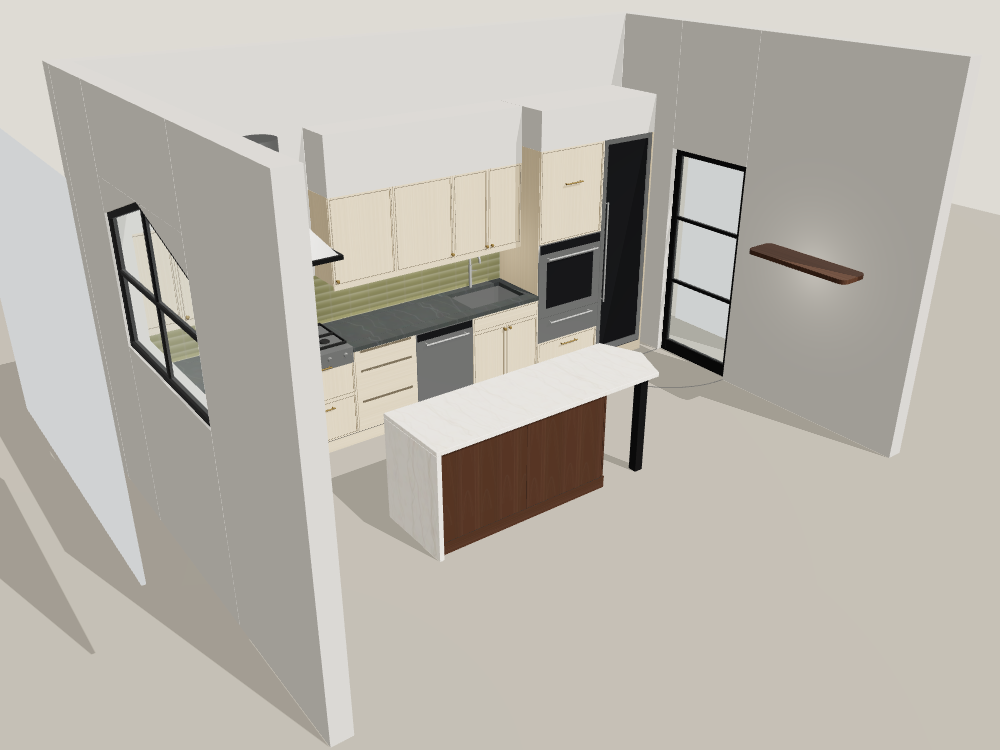
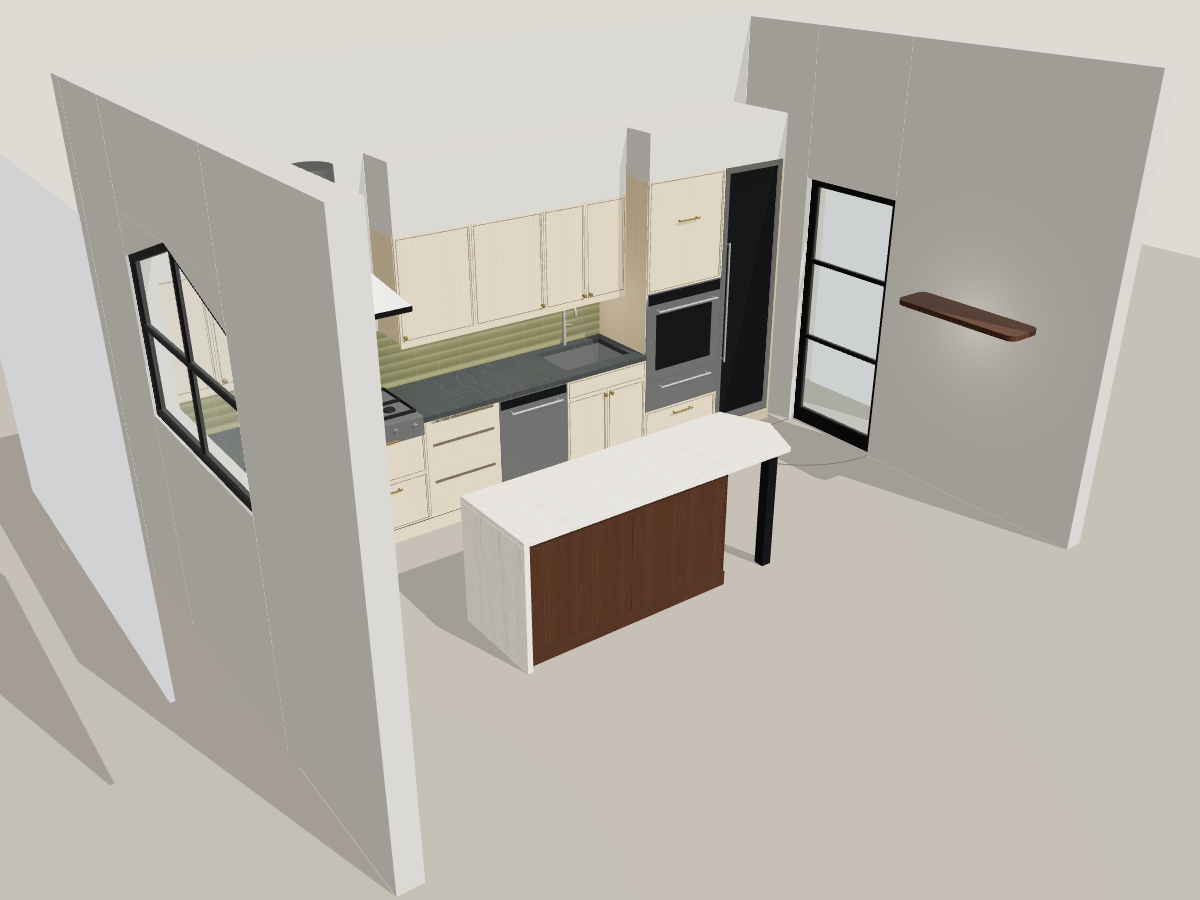
github pages workflow created for example page

Changed region(s): [[0.31, 0.3067, 0.496, 0.4293]]

diff --git a/tools/cpr.py b/tools/cpr.py
@@ -1323,6 +1323,111 @@ def cmd_job_material(a):
     return 0
 
 
+# ----------------------------------------------------------------------------- static site (GitHub Pages)
+SITE_MARKER = ".cpr-site"
+
+
+def site_index_html(cards, generated):
+    esc = lambda t: str(t or "").replace("&", "&amp;").replace("<", "&lt;").replace(">", "&gt;").replace('"', "&quot;")
+    items = []
+    for c in cards:
+        thumb = (f'<img src="{esc(c["thumb"])}" alt="{esc(c["title"])} overview" loading="lazy" width="1200" height="900">'
+                 if c["thumb"] else '<div class="nothumb">3D</div>')
+        specs = "".join(f"<li><span>{esc(k)}</span> {esc(v)}</li>" for k, v in c["specs"][:4])
+        items.append(f'''<a class="card" href="{esc(c["href"])}">
+  {thumb}
+  <div class="body"><h2>{esc(c["title"])}</h2><p>{esc(c["subtitle"])}</p><ul>{specs}</ul><span class="open">Open 3D viewer</span></div>
+</a>''')
+    return f'''<!doctype html>
+<html lang="en">
+<head>
+<meta charset="utf-8">
+<meta name="viewport" content="width=device-width, initial-scale=1">
+<title>Cabinet Preview Renderer examples</title>
+<style>
+:root {{ --bg:#f3f1ec; --panel:#fffdf9; --fg:#26241f; --muted:#6d685d; --line:#dcd7cc; --accent:#8a6f45; }}
+@media (prefers-color-scheme: dark) {{ :root {{ --bg:#1c1b19; --panel:#262420; --fg:#ece8df; --muted:#a49e91; --line:#3b3832; --accent:#c9a874; color-scheme: dark; }} }}
+* {{ box-sizing: border-box; }}
+body {{ margin:0; background:var(--bg); color:var(--fg); font:15px/1.5 system-ui, -apple-system, "Segoe UI", sans-serif; }}
+main {{ max-width:1100px; margin:0 auto; padding:40px max(16px, env(safe-area-inset-left)) 56px; }}
+h1 {{ font-size:28px; margin:0 0 6px; letter-spacing:.01em; }}
+.lead {{ color:var(--muted); margin:0 0 28px; max-width:65ch; }}
+.grid {{ display:grid; grid-template-columns:repeat(auto-fill, minmax(300px, 1fr)); gap:20px; }}
+.card {{ display:flex; flex-direction:column; background:var(--panel); border:1px solid var(--line); border-radius:10px; overflow:hidden; color:inherit; text-decoration:none; }}
+.card:hover, .card:focus-visible {{ border-color:var(--accent); outline:none; }}
+.card img, .nothumb {{ width:100%; height:auto; aspect-ratio:4/3; object-fit:cover; display:block; background:#dedbd4; }}
+.nothumb {{ display:grid; place-items:center; color:var(--muted); font-size:32px; }}
+.body {{ padding:14px 16px 16px; display:flex; flex-direction:column; gap:6px; flex:1; }}
+.body h2 {{ font-size:18px; margin:0; }}
+.body p {{ margin:0; color:var(--muted); font-size:13px; }}
+.body ul {{ list-style:none; margin:4px 0 0; padding:0; font-size:13px; }}
+.body li span {{ color:var(--muted); }}
+.open {{ margin-top:auto; padding-top:8px; color:var(--accent); font-weight:600; font-size:13px; }}
+footer {{ margin-top:36px; color:var(--muted); font-size:12px; }}
+</style>
+</head>
+<body>
+<main>
+<h1>Cabinet Preview Renderer examples</h1>
+<p class="lead">Example cabinet layouts rendered from job files. Each one opens as an interactive 3D viewer: drag to orbit, scroll to zoom, and use the view buttons for each wall.</p>
+<div class="grid">
+{chr(10).join(items)}
+</div>
+<footer>Built {esc(generated)} from jobs/examples/ by tools/cpr.py site.</footer>
+</main>
+</body>
+</html>
+'''
+
+
+def cmd_site(a):
+    """Build every job in jobs/examples/ into a static site folder (index page + one self-contained viewer per example)."""
+    out = Path(a.out).expanduser().resolve()
+    if out == ROOT or out in ROOT.parents or out.parent == ROOT and out.name in ("jobs", "engine", "tools", "textures", "vendor", "runtime"):
+        raise CprError(f"Refusing to write the site into {out}. Use a separate folder such as _site.")
+    if out.exists():
+        if any(out.iterdir()) and not (out / SITE_MARKER).exists():
+            raise CprError(f"{out} already has files that were not made by this command. Pick an empty folder.")
+        shutil.rmtree(out)
+    (out / "examples").mkdir(parents=True)
+    (out / SITE_MARKER).write_text("made by tools/cpr.py site; safe to delete\n", encoding="utf-8")
+    (out / ".nojekyll").write_text("", encoding="utf-8")   # serve files as-is on GitHub Pages
+    examples = [j for j in list_jobs() if j["example"]]
+    if not examples:
+        raise CprError("No example jobs found in jobs/examples/.")
+    cards = []
+    for j in examples:
+        name = j["name"]
+        d = require_job(name)
+        job = load_json(d / "job.json")
+        html_path, _ = build_standalone(name, out / "examples" / f"{name}.html", "inline")
+        print(f"Built examples/{name}.html")
+        ids = view_ids(job)
+        vid = "overview" if "overview" in ids else (ids[0] if ids else None)
+        fname = ((job.get("captureNames") or {}).get(vid) or f"{vid}.png") if vid else None
+        thumb = None
+        if a.thumbnails and vid:
+            try:
+                cmd_capture(argparse.Namespace(job=name, views=vid, size="1200x900", out=str(out / "examples"),
+                                               browser=a.browser, timeout=a.timeout))
+                src = out / "examples" / fname
+                if src.exists():
+                    src.replace(out / "examples" / f"{name}.png")
+                    thumb = f"examples/{name}.png"
+            except CprError as e:
+                print(f"  thumbnail for {name} skipped: {e}")
+        elif vid and (d / "output" / fname).is_file():
+            shutil.copy2(d / "output" / fname, out / "examples" / f"{name}.png")
+            thumb = f"examples/{name}.png"
+        info = job.get("info") or {}
+        cards.append({"title": info.get("title") or name, "subtitle": info.get("subtitle") or "", "specs": info.get("specs") or [],
+                      "href": f"examples/{name}.html", "thumb": thumb})
+    generated = time.strftime("%Y-%m-%d %H:%M UTC", time.gmtime())
+    (out / "index.html").write_text(site_index_html(cards, generated), encoding="utf-8")
+    print(f"Site ready: {out} ({len(cards)} example(s)). Preview it with: serve, then open /{rel(out)}/index.html if it is inside the project.")
+    return 0
+
+
 def cmd_package(a):
     out = Path(a.out).expanduser() if a.out else ROOT.parent / f"{ROOT.name}.zip"
     if inside_root(out):
@@ -1459,6 +1564,13 @@ def main(argv=None):
     s.add_argument("--remove", action="store_true", help="delete this custom material from the job")
     s.add_argument("--list", action="store_true", help="list the job's custom materials")
     s.set_defaults(fn=cmd_job_material)
+
+    s = sub.add_parser("site", help="build every jobs/examples/ job into a static website folder (for GitHub Pages)")
+    s.add_argument("--out", default="_site", help="output folder (default _site); it is replaced on each run")
+    s.add_argument("--thumbnails", action="store_true", help="render a fresh overview image per example (needs Chrome/Edge/Chromium)")
+    s.add_argument("--browser", help="path to Chrome/Edge/Chromium")
+    s.add_argument("--timeout", type=int, default=240)
+    s.set_defaults(fn=cmd_site)
 
     s = sub.add_parser("package", help="zip the project for handing to someone else")
     s.add_argument("--out", help="zip path (default: next to the project folder)")

diff --git a/README.md b/README.md
@@ -1,14 +1,21 @@
 # Cabinet-Preview-Renderer
-A set of tools for rendering cabinets from elevation drawings and details, using AI to parse and lay out the cabinets in the scene. 
-Make sure to update from main branch, not dev. 
+A tool to use AI to import drawings/elevations and create a 3D view and render of the cabinets.
 
+## Features
+* Support for plain and rift sawn wood of all colors and paint grade cabinets
+* Easy import from elevations / drawings
+* Easy to run, Claude or ChatGPT desktop apps handle the technical side of the rendering, just give them the unzipped code and your drawings, and it'll handle the rest
+* 3D view and pictures of your drawings done automatically in under 5 minutes
+* No needed add ons for Windows 10/11 useage, the ChatGPT or Claude app is all you need installed. Anything missing on Windows will be managed by your AI agent. MacOS/Linux users read the Technical section
 ## Using it
-
-1. Extract the folder and open it with an AI agent that can run commands (for example Claude Code).
-2. Tell the agent: "Read AI_README.md, then render the drawings in <path to PDF> and save the images to <folder>."
+1. Download the zip file from the releases page [here](github.com/fixthislaterwhenyourelease)
+2. Extract the folder and open it with an AI agent that can run commands (for example Claude Code). 
+3. Tell the agent: "Read AI_README.md, then render the drawings in (Your drawings file) and save the images to (image folder)."
 
 The agent does the rest: it reads the drawings, writes a job file, and renders PNG views plus an
-interactive HTML viewer. On Windows nothing needs installing (Python is bundled in `runtime/`).
-On macOS/Linux, Python 3 is required. Rendering uses Chrome, Edge or Chromium and needs internet access.
+interactive 3D viewer. On Windows nothing needs installing (Python is bundled in `runtime/`).
 
-`jobs/moore-bar/` is a finished example job.
+
+## Technical
+* On macOS/Linux, Python 3 is required. 
+* Rendering uses Chrome, Edge or Chromium and needs internet access.

diff --git a/AI_README.md b/AI_README.md
@@ -48,6 +48,7 @@ Windows 10/11 PC) and **internet access** (three.js and pdf.js load from public 
 | `capture <job> [--views all\|id,id] [--size 2400x1800] [--out FOLDER]` | Renders views to PNG with a headless browser. Files go to `jobs/<job>/output/` and are also copied to `--out` if given. `all` includes the automatic views when the job uses them (section 5.4). |
 | `build <job> [--out file.html] [--inline-libs \| --cdn]` | Writes one self-contained HTML viewer (orbit, zoom, view buttons, spec card). It opens by double-click and can be emailed or published. By default three.js is put inside the file (from `vendor/`), so it also works offline and in sandboxed file previews. `--cdn` makes a smaller file that needs internet. |
 | `open <job> [--no-launch]` | Builds the HTML viewer and opens it in the computer's default web browser. `--no-launch` only builds it and prints the path. |
+| `site [--out _site] [--thumbnails]` | Builds the public examples website: an index page plus one self-contained viewer per job in `jobs/examples/` (`--thumbnails` renders an overview image for each). `.github/workflows/pages.yml` runs this on every push to `main` and publishes it to GitHub Pages. Only demo jobs belong in `jobs/examples/`; the site is public. |
 | `vendor [--force]` | Downloads the pinned three.js and pdf.js files into `vendor/`. They ship with the project; you only need this if `vendor/` is missing. |
 | `serve [--port 8765]` | Serves the project at `http://127.0.0.1:8765/` for a browser tool. It prints viewer, capture and PDF URLs, and keeps running until stopped. |
 | `textures list [--json]` | Lists every material id you can use in a job. |
